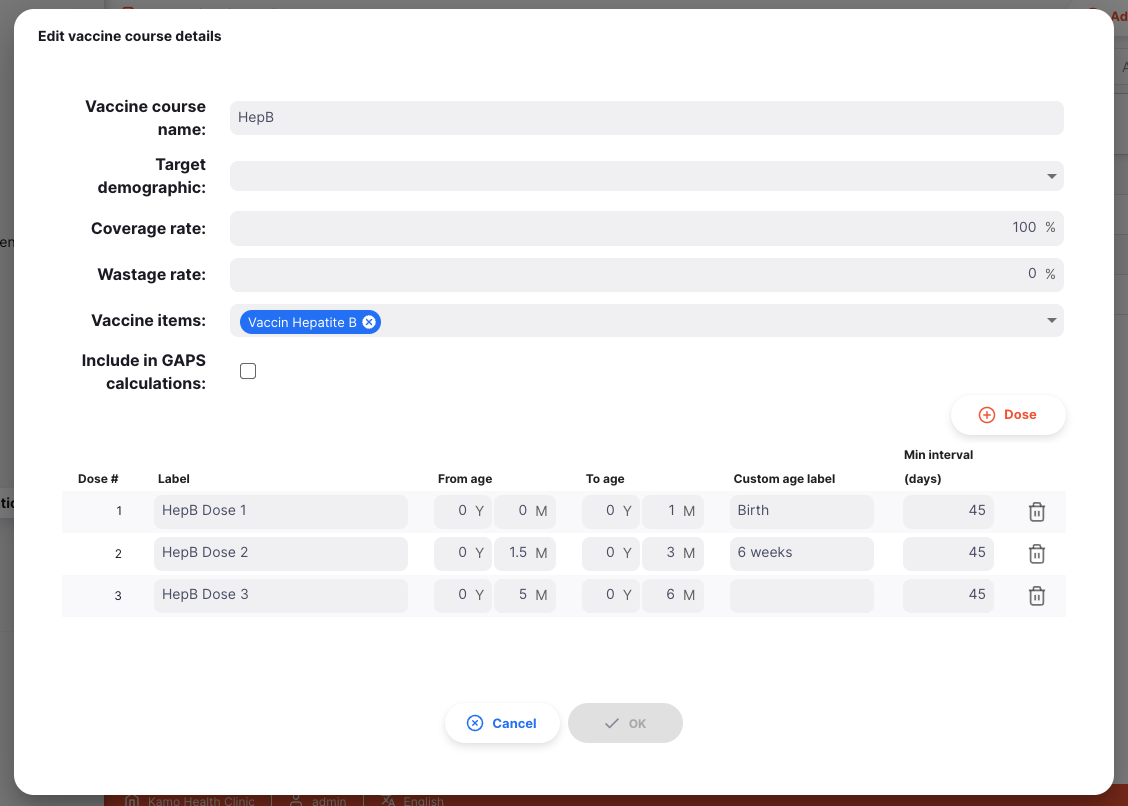
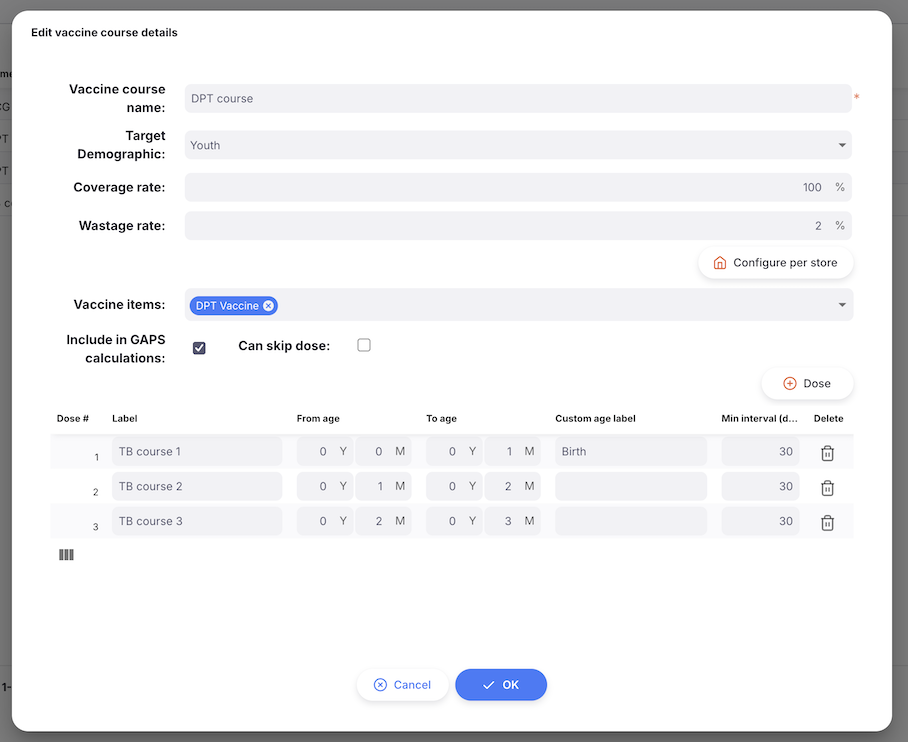
vaccine course updates

diff --git a/content/docs/programs/immunisations/index.md b/content/docs/programs/immunisations/index.md
@@ -72,13 +72,25 @@ This will open a new window, where you can enter the details of the new Vaccine 
 
 ![vaccine course: create modal](images/vaccine_course_add.png)
 
+#### Per-store rates
+
+By default, coverage and wastage rates apply to a vaccine course across every store that administers it. If your stores have different rates, though, you can override the defaults on a per-store basis.
+
+To get started, click the **Configure per store** button:
+
+![vaccine course: configure per-store button](images/vaccine_course_configure_per_store_button.png)
+
+This opens a table where you can set a coverage and wastage rate for each store. Any store you leave blank will fall back to the global rate defined on the vaccine course itself.
+
+![vaccine course: per-store rates table](images/vaccine_course_configure_per_store_table.png)
+
 #### Doses
 
 To add doses to the Vaccine Course, click the `(+) Dose` button. This will add a new row to the `dose schedule` table, where the details of the dose can be entered, including when the dose can administered.
 
 ![vaccine course: dose edit table](images/vaccine_course_dose_edit.png)
 
-The Dose Schedule table is divided into 6 columns:
+The Dose Schedule table is divided into 7 columns:
 
 | Column                  | Description                                                                                                              |
 | :---------------------- | :----------------------------------------------------------------------------------------------------------------------- |
@@ -88,6 +100,7 @@ The Dose Schedule table is divided into 6 columns:
 | **To age**              | Maximum recommended age to receive the dose (in years and months)                                                        |
 | **Custom age label**    | Custom age label to be displayed in the Vaccination Card. If not defined, the default is the `From age` (e.g. `6 years`) |
 | **Min interval (days)** | Minimum number of days before the patient should receive the next dose                                                   |
+| **Delete**              | Click the trash can icon to delete this dose                                                                             |
 
 <div class="note">
   If custom age labels are used, ensure that label is the same across all doses in the Immunization Program with the same <code>From age</code>. For example, if you want to replace "0 months" with "Birth", all doses across all Vaccine Courses with a <code>From age</code> of 0 months will need the custom age label of "Birth". This ensures correct grouping of doses in the Vaccination Card.
@@ -104,6 +117,18 @@ Click `Cancel` at any time to close the window and discard your changes.
 To view or edit the details of a Vaccine Course, click on the row in the list. This will re-open the editing window, for you to view or change any details.
 
 ![vaccine course: edit modal](images/vaccine_course_detail.png)
+
+#### Skipping doses
+
+For some vaccine courses, every dose matters and the order they're given in is important.
+
+In practice, though, that isn't always possible. For example: if a patient misses their birth dose (bOPV0), they shouldn't have to catch up on it later - they can simply move on to the next dose (bOPV1) at their next visit. To allow this kind of flexibility for a vaccine course, tick the `Can skip dose` checkbox.
+
+Here's how dose skipping works:
+
+- When you administer a dose that isn't the next one in the sequence, a warning dialog will appear to confirm your choice
+- Any doses you skip over are automatically marked as **Not given**
+- As usual, only the most recently recorded dose (whether **Given** or **Not given**) can be edited
 
 ### Deleting a Vaccine Course
 